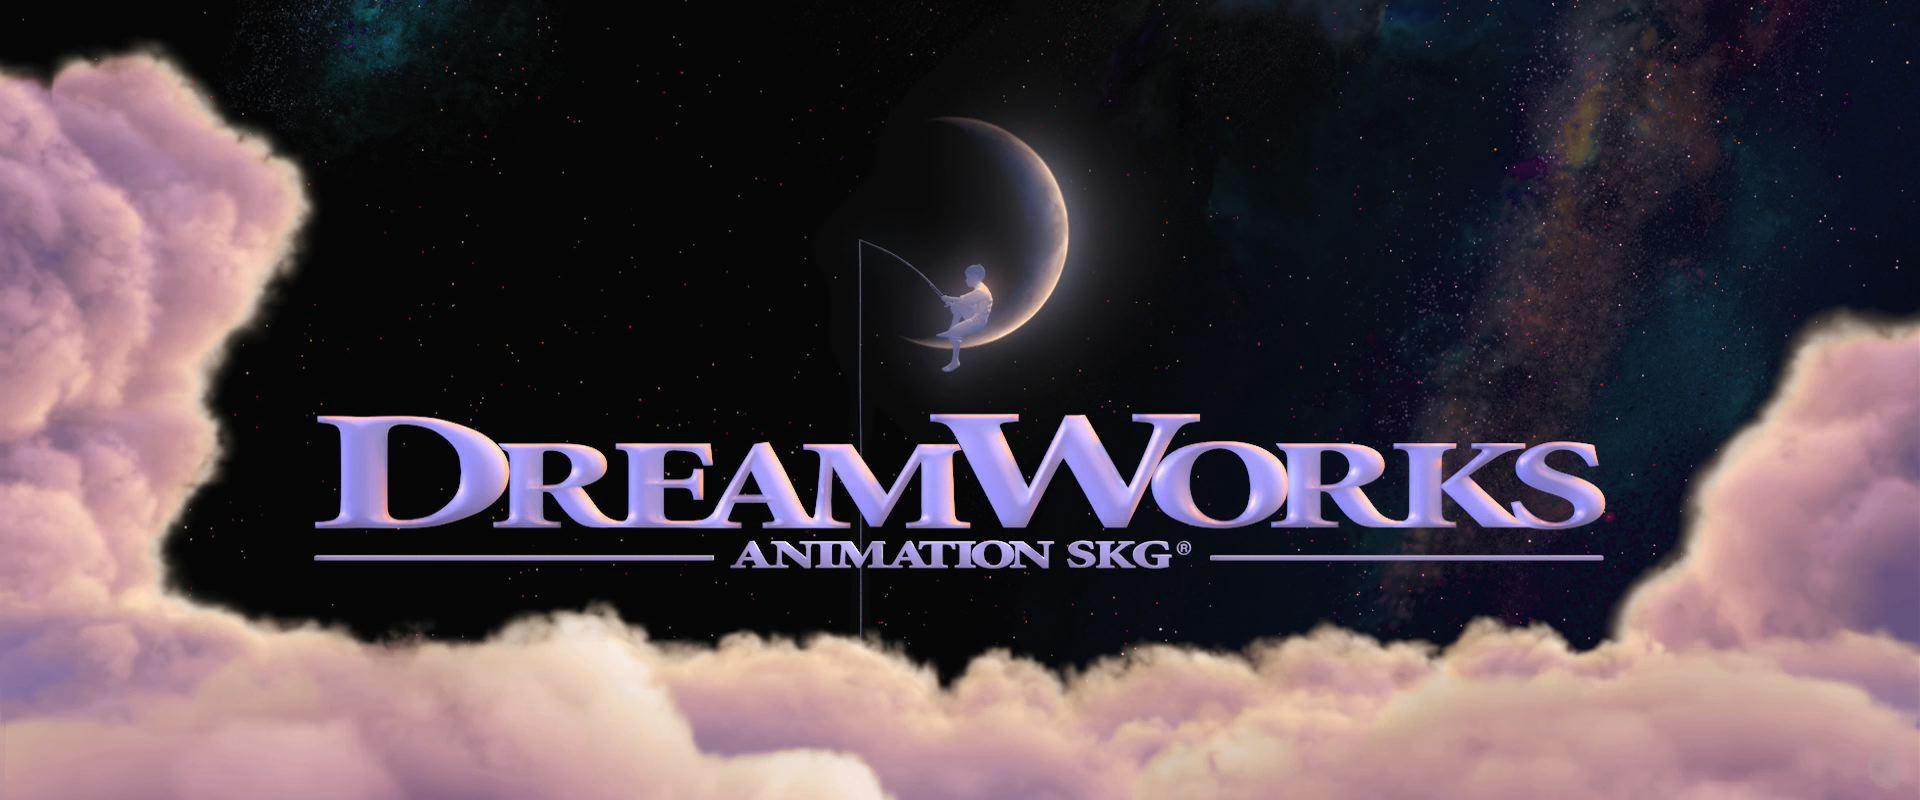
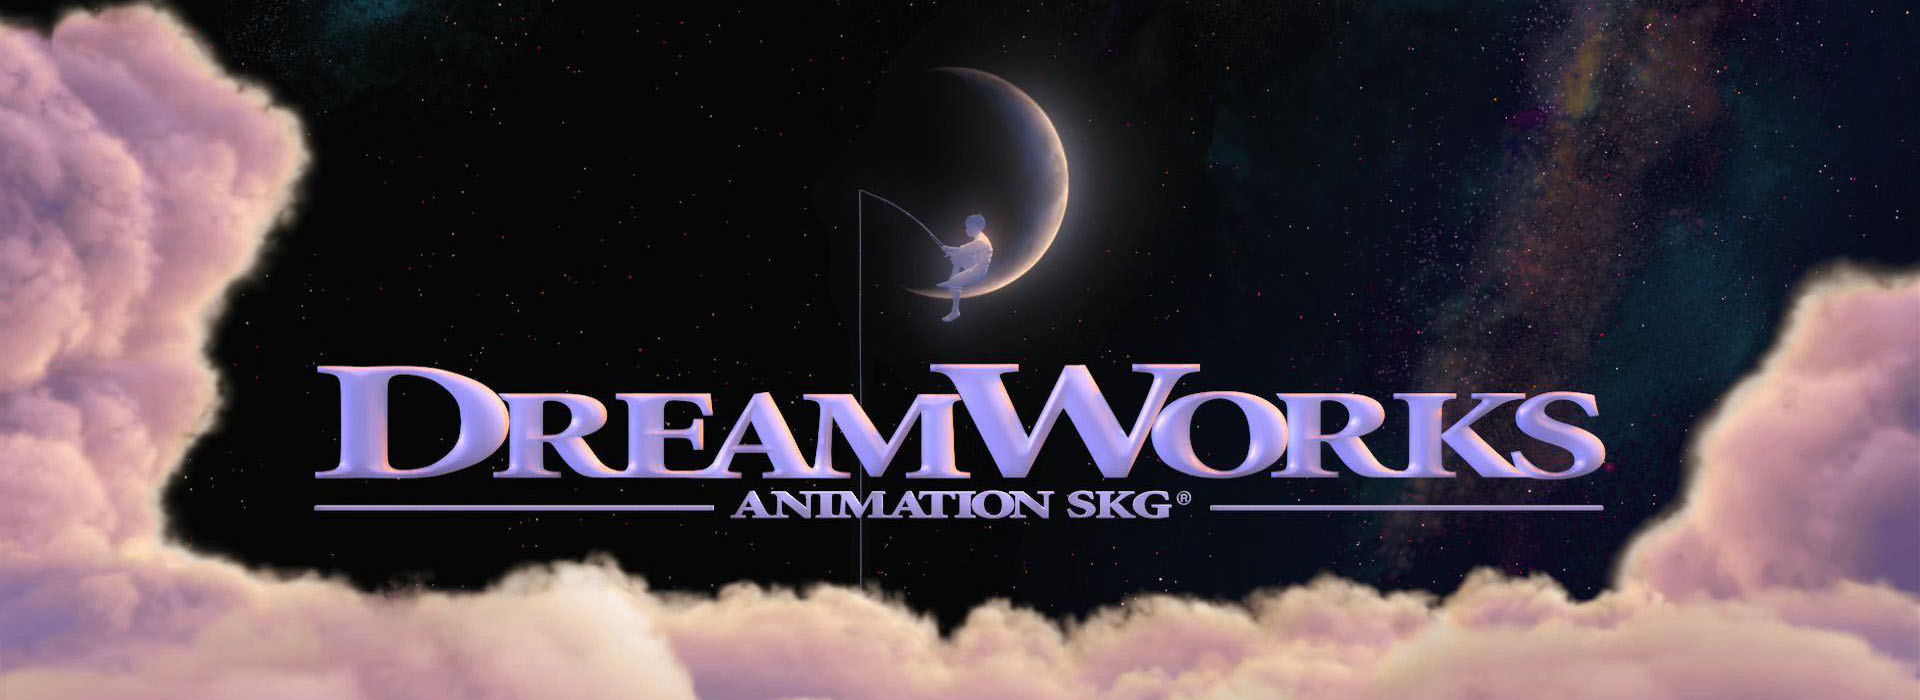
reprise

diff --git a/public_html/js/script.js b/public_html/js/script.js
@@ -1,5 +1,5 @@
 const urlGoogleSheetDatas = "https://script.google.com/macros/s/AKfycbwci223-ImWEK3y_xrb_O2Q-Es20qBQXbT1B2fxSxT5ZhwXi3eqm0e-Br-nv0CA_ouw5Q/exec";
-const urlGoogleSheetDragon ="https://script.google.com/macros/s/AKfycbzZf7FpsHssWBS_jzbH7-KqdSC5ZzXRZiZgyoBUk1ySxpoJo1vVkurt7SFbS9ojmmpH/exec";
+const urlGoogleSheetDragon ="https://script.google.com/macros/s/AKfycbyTdwFtaFRaf84w73Ywip7HLrw55FqZRaZgR9q9LiV8KuRxKfLqTvU5lZB-SOx8htNGTw/exec";
 // création d'une instance de la class Navigo
 const router = new Navigo("/");
 
@@ -58,9 +58,9 @@ router.on({
                         let node = template.content.cloneNode(true);
                         
                         //affectation des données dans la copie du template
-                        node.querySelector('h2').innerHTML = data.colonne1;
-                        node.querySelector('.colonne2').innerHTML = data.colonne2;
-                        node.querySelector('.colonne3').innerHTML = data.colonne3; 
+                        node.querySelector('h2').innerHTML = data.dragon;
+                        node.querySelector('.colonne2').innerHTML = data.image;
+                        node.querySelector('.colonne3').innerHTML = data.texte; 
                         
                         // ajout de la copie du template dans la zone d'affichage des données
                         listDatas.appendChild(node);

diff --git a/public_html/Pages/Page_Cinematographie.html b/public_html/Pages/Page_Cinematographie.html
@@ -10,7 +10,7 @@ Click nbfs://nbhost/SystemFileSystem/Templates/ClientSide/html.html to edit this
         <meta name="viewport" content="width=device-width, initial-scale=1.0">
     </head>
     <body>
-        <img class="image_studio_haut" src="img/image_cinematographie_haut.jpg">
+        <img class="image_studio_haut" src="img/image_cinematographie_haut.png">
         
         <div class="musique">
         <iframe src="https://open.spotify.com/embed/album/1kTnC045mQqurTQvGMGpmU?utm_source=generator"></iframe>

diff --git a/public_html/css/style.css b/public_html/css/style.css
@@ -231,10 +231,9 @@ section img#krokmou{
     border: 0;
     font-size: 1.5em;
     cursor: pointer;
-    position: relative;
-    padding: 16px 50px;
+    padding: 1.3% 5%;
     transition: all .25s;
-    bottom: 17%;
+    bottom: 12%;
     left: 17%;
     position: absolute;
 }
@@ -262,8 +261,6 @@ section img#krokmou{
 /*image de haut de chaque page*/
 .image_studio_haut{
     width: 100%;
-    height: 16%;
-    background: rgba(0,0,0,.4);
 }
 
 /*insertion table page dragon*/

diff --git a/public_html/Pages/Page_Dragons.html b/public_html/Pages/Page_Dragons.html
@@ -138,8 +138,8 @@
             </div>
 
             <section>
-                <img src="img/stars" data-speed="-5" id="stars">
-                <img src="img/stars" data-speed="-5" id="stars">
-            </section>
+            <img src="img/stars" data-speed="-5" id="stars">
+            <img src="img/stars" data-speed="-5" id="stars"> 
+        </section>
     </body>
 </html>

diff --git a/public_html/Pages/Page_Personnages.html b/public_html/Pages/Page_Personnages.html
@@ -10,6 +10,6 @@ Click nbfs://nbhost/SystemFileSystem/Templates/ClientSide/html.html to edit this
         <meta name="viewport" content="width=device-width, initial-scale=1.0">
     </head>
     <body>
-        <img class="image_studio_haut" src="img/image_personnage_haut.jpg">
+        <img class="image_studio_haut" src="img/page_personnages_haut.jpg">
     </body>
 </html>

diff --git a/public_html/Pages/Page_Dragon_Caracteristiques.html b/public_html/Pages/Page_Dragon_Caracteristiques.html
@@ -12,8 +12,8 @@
         <template id="templateDragons">
             <div>
                 <h2></h2>
-                <p id ="colonne2"></p>
-                <p id ="colonne3"></p>
+                <p class="colonne2"></p>
+                <p class="colonne3"></p>
             </div>
         </template>
         <div id="listDatas"></div>
